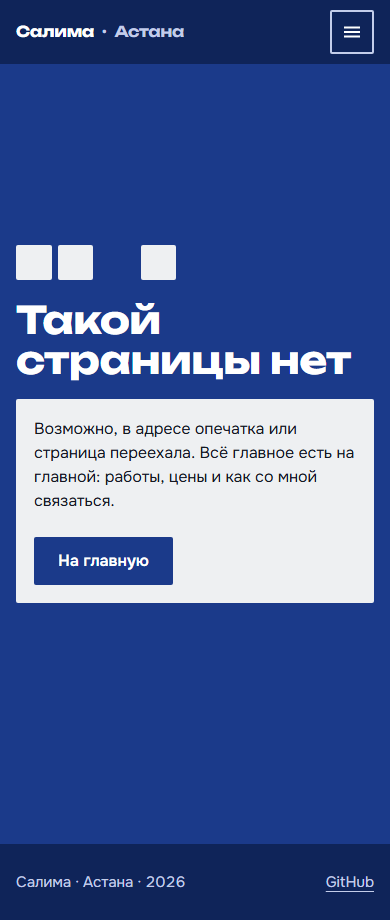
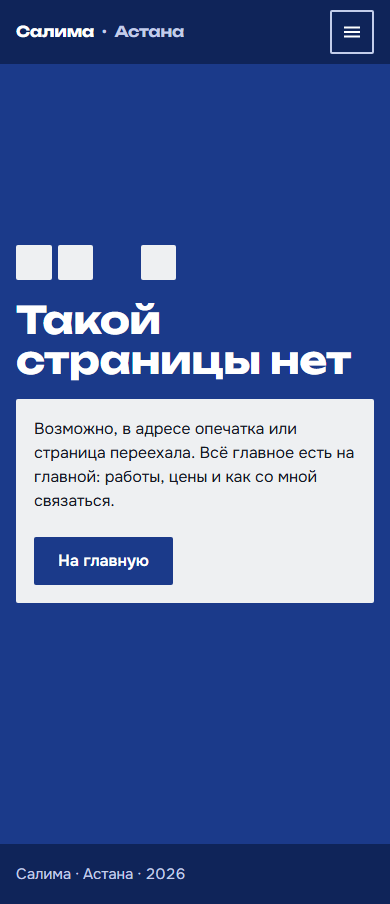
Remove hero tiles, about photo, github link

diff --git a/src/data/about.ts b/src/data/about.ts
@@ -1,29 +1,10 @@
-import type { ImageMetadata } from 'astro';
-
 /**
  * Всё, что сайт говорит о Салиме лично.
  *
  * bio — только подтверждённые факты, каждое предложение отдельной
  * строкой массива. Ничего не дописывать от себя.
- *
- * Фото: положи файл в src/assets/portrait.jpg (подойдут .jpeg, .png,
- * .webp). Лучше вертикальное, при дневном свете. Сайт найдёт его сам.
- * Пока фото нет, в режиме разработки на его месте стоит заглушка,
- * а в сборке для публикации места под фото просто нет: сборка не
- * падает, и заглушка к клиентам не попадёт.
  */
 export const bio: string[] = [
   "Я делаю сайты для бизнеса, сама нахожусь в Астане.",
   "Мне важно, чтобы дизайн был понятным, цены — честными, а все доступы оставались у клиента.",
 ];
-
-const portraits = import.meta.glob<{ default: ImageMetadata }>(
-  '../assets/portrait.{jpg,jpeg,png,webp}',
-  { eager: true }
-);
-
-export const portrait: ImageMetadata | undefined =
-  Object.values(portraits)[0]?.default;
-
-/** Показывать ли заглушку вместо фото: только при разработке. */
-export const showPortraitPlaceholder = !portrait && import.meta.env.DEV;

diff --git a/src/styles/global.css b/src/styles/global.css
@@ -287,6 +287,11 @@
     text-wrap: balance;
   }
 
+  /* Главный заголовок первого экрана: он один занимает верх экрана. */
+  .display-hero {
+    font-size: clamp(2.75rem, 1.4rem + 5.6vw, 6rem);
+  }
+
   .display-xl {
     font-size: clamp(2.25rem, 1.35rem + 4.2vw, 4.5rem);
   }

diff --git a/src/data/contacts.ts b/src/data/contacts.ts
@@ -8,5 +8,4 @@ export const contacts = {
   whatsapp: "https://wa.me/77072003612",
   telegram: "https://t.me/saliima_s",
   email: "salimaakhm@gmail.com",
-  github: "https://github.com/sakhmedi",
 } as const;

diff --git a/DESIGN.md b/DESIGN.md
@@ -21,6 +21,12 @@ colors:
   danger: "#a3201a"
   phone: "#0a1430"
 typography:
+  display-hero:
+    fontFamily: "Unbounded Variable, Onest Variable, system-ui, sans-serif"
+    fontSize: "clamp(2.75rem, 1.4rem + 5.6vw, 6rem)"
+    fontWeight: 700
+    lineHeight: 1.04
+    letterSpacing: "-0.01em"
   display-xl:
     fontFamily: "Unbounded Variable, Onest Variable, system-ui, sans-serif"
     fontSize: "clamp(2.25rem, 1.35rem + 4.2vw, 4.5rem)"
@@ -172,13 +178,6 @@ components:
     rounded: "{rounded.tile}"
     padding: "0.75rem"
     height: "3rem"
-  screen-counter:
-    backgroundColor: "{colors.cobalt}"
-    textColor: "{colors.on-cobalt}"
-    typography: "{typography.label}"
-    rounded: "{rounded.tile}"
-    padding: "0 0.75rem"
-    height: "2.75rem"
   nav-link:
     textColor: "{colors.on-cobalt-muted}"
   nav-link-active:
@@ -230,11 +229,11 @@ components:
 Холодное кобальтовое панно, тёплая терракота редкими вставками и одна жёлтая смальта.
 
 ### Primary
-- **Кобальт** (`cobalt`): поле экранов 1 и 3 и страницы 404, обычная кнопка, табличка-счётчик экрана и пункты мобильного меню в шапке, тессеры, рамка фокуса и каретка на камне. Белый на нём — 10.4:1.
+- **Кобальт** (`cobalt`): поле экранов 1 и 3 и страницы 404, обычная кнопка, пункты мобильного меню, тессеры, рамка фокуса и каретка на камне. Белый на нём — 10.4:1.
 - **Ночной кобальт** (`cobalt-deep`): фон `html`/`body`, шапка, экраны 2, 4, 6 и /projects, наведение обычной кнопки, тессеры, `theme-color`. Белый на нём — 14.8:1.
 
 ### Secondary
-- **Терракота** (`terracotta`): весь экран «Обо мне» (единственный тёплый экран — там человек), плашки платных шагов «50%» в «Как я работаю», квадратные метки списков «что входит» и обещаний, тессеры кромок и плитка панно на первом экране. Белый на ней — 4.54:1: только крупный текст (надписи и цены 700).
+- **Терракота** (`terracotta`): весь экран «Обо мне» (единственный тёплый экран — там человек), плашки платных шагов «50%» в «Как я работаю», квадратные метки списков «что входит» и обещаний, тессеры кромок. Белый на ней — 4.54:1: только крупный текст (надписи и цены 700).
 - **Терракотовые чернила** (`terracotta-ink`): мелкая подпись типа работы на карточке («Концепт», «Демо»); обычная терракота для мелкого текста на камне слишком светла. На камне — 6.1:1.
 
 ### Tertiary
@@ -265,12 +264,13 @@ components:
 **Character:** Широкий геометрический гротеск — буквы, выложенные на фасаде; набирает заголовки, цены, подписи и жёлтые кнопки. Onest спокойно несёт текст. Оба подключены локально через @fontsource-variable с набором cyrillic-ext, поэтому казахские ә ғ қ ң ө ұ ү һ наберутся тем же шрифтом.
 
 ### Hierarchy
-- **Display XL** (700, 1.04, −0.01em, `text-wrap: balance`): заголовок первого экрана, «Напишите мне», заголовки /projects и 404.
+- **Display Hero** (700, 1.04, −0.01em, до 6rem, не шире 16ch): только заголовок первого экрана, самая крупная надпись сайта.
+- **Display XL** (700, 1.04, −0.01em, `text-wrap: balance`): «Напишите мне», заголовки /projects и 404.
 - **Display LG**: заголовки экранов («Работы», «Цены и сроки», «Как я работаю», «Обо мне») и имя на плитке «Обо мне».
 - **Display MD**: названия тарифов, шагов и работ на плитках. На ≥1024px в пяти узких шагах сжимается до нижней границы, 1.25rem.
 - **Price** (700, 1, без переноса): цены и суммы оплаты; «от», «₸» и «по объёму» — **Price unit** (0.5em, 600, прописные, 0.04em). Тысячи разделяет узкий неразрывный пробел.
 - **Smalt** (700, 1.1, 0.01em): подпись жёлтой плитки; на ≥768px — **Smalt MD**. В шапке и имени сайта — **Wordmark** (0.9375rem).
-- **Label** (600, 0.75rem, 0.08em, прописные): подпись над данными на плитке («Что входит», «Вы платите мне»), тип работы под названием, счётчик экрана «1 / 6». **Label SM** (0.6875rem) — номер экрана в квадрате у пункта меню.
+- **Label** (600, 0.75rem, 0.08em, прописные): подпись над данными на плитке («Что входит», «Вы платите мне»), тип работы под названием. **Label SM** (0.6875rem) — номер экрана в квадрате у пункта меню.
 - **Lead** (1.125rem → 1.25rem на ≥768px): вводная строка первого экрана; 1.125rem — под «Напишите мне» и над формой.
 - **Body** (400, 1rem → 1.0625rem на ≥768px, 1.5, табличные цифры): основной текст; строка до `measure` (36rem, около 65 знаков кириллицы).
 - **Body small** (0.9375rem): описания на плитках, вводные абзацы экранов на телефоне, подвал, ошибки формы, подписи контактов.
@@ -288,13 +288,13 @@ components:
 
 **Контакты.** На телефоне две части со своей привязкой, обе по `100svh`: WhatsApp и форма; подвал прицеплен к концу второй. На ≥1024px — один экран-сетка из 12 колонок: WhatsApp 5 колонок, форма 7, подвал во всю ширину.
 
-**Колонка.** `shell` до 1240px, поля 1rem, на ≥768px 2rem. На ≥1024px главные экраны — сетка 12 колонок: на первом заголовок 7, панно 5; на «Работах» текст 4, работы 8. Панно первого экрана — сетка 6×6 через шов; ниже 1024px на окнах ниже 700px по высоте оно прячется, уступая место тексту и кнопке.
+**Колонка.** `shell` до 1240px, поля 1rem, на ≥768px 2rem. Первый экран — одна группа по центру высоты: заголовок Display Hero во всю ширину, под ним на ≥1024px ряд из 12 колонок — вводная строка на 6 колонок слева, табличка «На связи» и жёлтая плитка друг под другом на 5 колонок справа (с 8-й), выровненные по верху; на телефоне всё одной колонкой, жёлтая плитка во всю ширину. Картинок и тессер на первом экране нет. На «Работах» на ≥1024px текст 4 колонки, работы 8. «Обо мне» — одна каменная плитка не шире 48rem: имя, две строки о себе и обещания, без места под фото.
 
 **Листание вбок.** Тарифы, шаги и работы стоят в ряд по 86% ширины (на ≥640px — 46%), следующая плитка выглядывает с края; ряд выходит под край экрана за поля колонки. На ≥1024px при заданном числе колонок ряд становится сеткой (работы 2, тарифы 3, шаги 5, /projects 4), точки и стрелки прячутся.
 
 **Ритм.** Шов `seam` 6px — между всеми плитками. Поля плитки 1.125rem, на ≥768px 1.75rem. Цели касания — от 44px, пункты мобильного меню 52px, кнопки листания 44px.
 
-**Контрольные точки:** 640px, 768px, 1024px; плюс высота 700px для панно первого экрана.
+**Контрольные точки:** 640px, 768px, 1024px.
 
 ## Elevation & Depth
 
@@ -332,7 +332,7 @@ components:
 - **Ошибка:** рамка 2px `danger`, под полем текст 0.9375rem 500 `danger`.
 
 ### Navigation
-Шапка — полоса ночного кобальта высотой 4rem поверх экранов. Слева имя (Wordmark), «·» и город в `on-cobalt-muted`. На ≥1024px — пункты Onest в `on-cobalt-muted`, у каждого квадрат 1.5rem с номером экрана: невыбранный — пунктирный шов, текущий — сплошная белая плитка с номером ночным кобальтом. Справа счётчик «1 / 6» — плитка кобальта с Label (на ≥1024px только на первом экране, у которого нет пункта), и смальта. Ниже 1024px — кнопка меню 44px с рамкой 2px `on-cobalt-muted`; меню раскрывается плитками кобальта через шов, номер экрана Label перед названием.
+Шапка — полоса ночного кобальта высотой 4rem поверх экранов. Слева имя (Wordmark), «·» и город в `on-cobalt-muted`. На ≥1024px — пункты Onest в `on-cobalt-muted`, у каждого квадрат 1.5rem с номером экрана: невыбранный — пунктирный шов, текущий — сплошная белая плитка с номером ночным кобальтом. Справа на ≥1024px — смальта «Написать». Отдельного счётчика экранов нет: адрес экрана несут только номера у пунктов меню, у первого экрана номера нет. Ниже 1024px — кнопка меню 44px с рамкой 2px `on-cobalt-muted`; меню раскрывается плитками кобальта через шов, номер экрана Label перед названием.
 
 ### Листание (Pager)
 Ряд плиток с привязкой по горизонтали. Без JavaScript — обычная прокрутка вбок. Со скриптом выбранная плитка (видна больше чем на 60%) выложена камнем, соседние — пустой пунктирный шов 2px `on-cobalt-muted` со скрытым содержимым (смена 220ms). Ниже — стрелки 44px с рамкой 2px и точки-тессеры 0.75rem в зоне касания 44px: выбранная залита белым, остальные — пунктир. На ≥1024px с сеткой все плитки выложены камнем.
@@ -344,7 +344,7 @@ components:
 Когда экран впервые пересекает середину окна, его плитки (`data-lay`) проявляются и поднимаются на 18px: прозрачность 520ms, сдвиг 620ms, `cubic-bezier(0.16, 1, 0.3, 1)`, задержка 70ms на ряд. Заголовки не прячутся никогда. Без JavaScript и при `prefers-reduced-motion: reduce` всё сразу на месте, плавная прокрутка тоже выключена.
 
 ### Подвал
-Шов 6px кобальта сверху, 0.9375rem `on-cobalt-muted`: имя · город · год и ссылка GitHub. На главной стоит внутри последнего экрана.
+Шов 6px кобальта сверху, 0.9375rem `on-cobalt-muted`: имя · город · год, без ссылок. На главной стоит внутри последнего экрана.
 
 ## Do's and Don'ts
 

diff --git a/PRODUCT.md b/PRODUCT.md
@@ -22,7 +22,7 @@ saliima.dev (live at https://saliima.netlify.app/) is Salima's storefront as a f
 ## Operating Context
 
 - Visitors arrive mostly on phones, from links shared in messengers. The link preview (`public/og.png`) is part of the first impression.
-- WhatsApp is the main way to get in touch. Telegram, email, GitHub, and the Formspree request form are the alternatives.
+- WhatsApp is the main way to get in touch. Telegram, email, and the Formspree request form are the alternatives. The site does not link to GitHub.
 - How the work goes, as the site states it: a free first conversation, then a 50% prepayment. The client reviews the site on their own phone before launch, and two rounds of edits are included. The other 50% is paid on approval, then the site launches and every login is handed over.
 
 ## Capabilities and Constraints
@@ -44,7 +44,7 @@ saliima.dev (live at https://saliima.netlify.app/) is Salima's storefront as a f
 ## Evidence on Hand
 
 - Works: DALA COFFEE (coffee shop, concept), Дентал Плюс (dental clinic, concept), Shart AI (document assistant, demo with prepared answers), Bloom (flower guide, study project). Screenshots are in `src/assets/screens/`.
-- Portrait: not provided yet. When it exists it goes to `src/assets/portrait.jpg` (or .jpeg/.png/.webp) and the site picks it up; the published build shows no placeholder. Link preview image: `public/og.png`, rendered by `npm run og`.
+- Portrait: none. The site has no photo slot; «Обо мне» is the name, two lines about Salima and four promises. Link preview image: `public/og.png`, rendered by `npm run og`.
 - None of the works are for paying clients, and there are no testimonials, client logos, or numbers. Future work must never invent them or present a concept as client work.
 
 ## Product Principles

diff --git a/README.md b/README.md
@@ -66,15 +66,12 @@ Netlify собирает сайт автоматически при пуше в 
 - `screenshotStorage` — что положить в `localStorage` сайта до загрузки
   (например `{ lang: "ru" }`, если язык хранится в браузере, а не в адресе).
 
-## Фото
+## О себе
 
-Фото за стеклом на первом экране и в блоке «Обо мне» берётся из файла
-`src/assets/portrait.jpg` (подойдут .jpeg, .png, .webp). Пока файла нет,
-`npm run dev` показывает на его месте заглушку, а в сборке для публикации
-места под фото просто нет. Текст о себе — массив `bio` в `src/data/about.ts`.
+Текст о себе — массив `bio` в `src/data/about.ts`. Места под фото на сайте нет.
 
 ## Дизайн
 
-Вид сайта — «Витрина»: тёмное стекло двери, белая плёнка, светлые
-таблички и одна жёлтая наклейка «написать». Цвета, шрифты и правила
-описаны в `DESIGN.md`.
+Вид сайта — «Мозаика модернизма»: экраны с привязкой при прокрутке, кобальтовые
+поля, светлые каменные плитки с текстом, редкая терракота и одна жёлтая
+плитка «написать». Цвета, шрифты и правила описаны в `DESIGN.md`.
